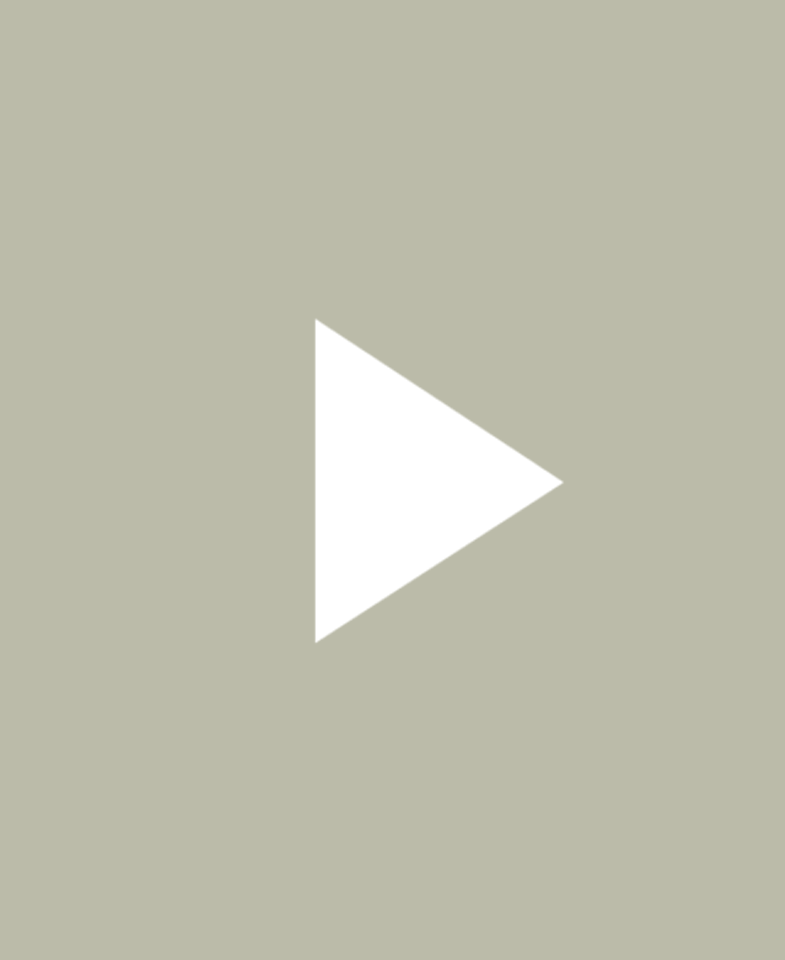
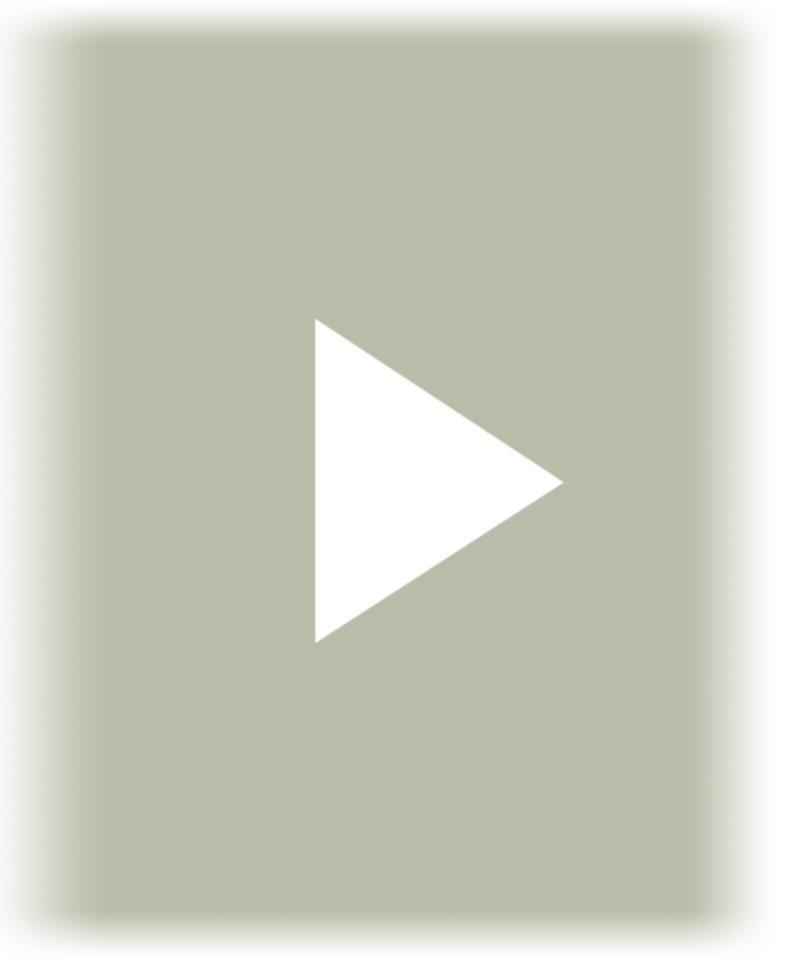
sepia filters

Changed region(s): [[0.0, 0.0, 1.0, 1.0]]

diff --git a/js/cocktail.js b/js/cocktail.js
@@ -144,7 +144,8 @@
 			],
         daiquiri: [["Shake with cracked ice.","Strain into a chilled cocktail glass.", "Garnish with a lime wheel"],
 				["<a href='.'>Daiquiri</a>", "1½ oz light rum", "¾ oz lime juice", "¼ ounce of simple syrup", "<b>Cocktail Glass</b>"],["No doubt the frozen kiwi-banana Daiquiri and the watermelon-strawberry Daiquiri are superlative choices when training for a drunken balcony-to-balcony climb at a Daytona Beach hotel midway through spring break. But the odss are you're already past that - or somehow resisted such antics in the first place - and can now appreciate an unalduterated Daiquiri.", "Only mildly difficult to prepare, this drink is best served ice-cold. When a dash of <strong>grenadine</strong> is added it's known as a Bacardi Cocktail. If the lime is too tart, add a dash of maraschino, orgeat, or crème d'ananas. Never opt of Rose's lime juice; you'll end up with a mutated Gimlet. Always shake or flash blend the ingredients thoroughly with cracked ice.", "Similar drinks include the Floridita."]],
-        cosmopolitan: [["Shake with cracked ice; strain into chilled cocktail glass. Garnish with a lime wheel."],["<a href='.'>Cosmopolitan</a>", "1½ oz vodka", "¾ oz Cointreau", "½ ounce lime juice", "1 splash cranberry juice"],[]]
+        cosmopolitan: [["Shake with cracked ice.","Strain into chilled cocktail glass.", "Garnish with a lime wheel."],["<a href='.'>Cosmopolitan</a>", "1½ oz vodka", "¾ oz Cointreau", "½ ounce lime juice", "1 splash cranberry juice"],["When faced with a sudden onslaught of univited guests around the cocktail hour, serve Cosmopolitans. A drink like this is easily adapted by home hosts on those occasions when mixing seems like too much stress and strain.", "Avoid situations in which guests recite their take on the Cosmo's recipe. There are hundreds of variations, but only a few are worth mentioning and even fewer worth drinking.", "With any version of the Cosmopolitan, remember that without the proper of lime, the drink will also be too sweet. Also, avoid mixing syrups or <strong>simple syrup</strong> in this crisp cocktail.", "Citrus-infused vodkas will allow for plenty of experimentation.", "Similar drinks include the Evan, the Edisonian and the Jasmine."]],
+        floridita: [["Shake with cracked ice.","Strain into chilled cocktail glass.", "Garnish with a lime wheel."],["<a href='.'>Floridita</a>", "1½ oz light rum", "½ ounce lime juice", "½ ounce sweet vermouth", "1 dash white crème de cacao", "1 dash of grenadine"],["The Floridita offers itself as common ground for even the most disparate of cocktail crowds. Unlike the Manhattan and the Old Fashioned, which provide the perfect backdrop for an event, the Floridita is so unusual taht it actually provokes conversation.", "When mixing a Floridita, shake well, and never add too much crème de cacao or grenadine. With so many ingredients, this drink often ends up unbalanced. The key to a well-made Floridita is the layering of tastes it contains. The citrus should hit first and the cacao least. Although brown crème de cacao tastes no different from the cordial's clear version, steer clear of it unless you want a cocktail that looks like mud.", "Similar drinks include the Cosmopolitan and the Hemingway Daiquiri."]]
 		},
 		lookup = {
 			c1: 'dry_martini',
@@ -154,7 +155,9 @@
 			c4: 'mint_julep',
 			c5: 'moscow_mule',
             c7: 'manhattan',
-            c8: 'daiquiri'
+            c8: 'daiquiri',
+            c9: 'cosmopolitan',
+            c10: 'floridita'
 		},
 		utils = speakEasy.Util,
 		con = window.console.log.bind(window),

diff --git a/css/home.css b/css/home.css
@@ -242,9 +242,7 @@ header ul a:link {
 	background-size: cover;
 	display: block;
 }
-header ul a:hover {
-	background-position: 0 0
-}
+
 
 form fieldset ul:last-child {
 	text-align: left;
@@ -274,6 +272,20 @@ header ul li:nth-child(5) a {
 header ul li:nth-child(6) a {
 	background-image: url("../img/cognac_s.png");
 	border-width: 0;
+}
+
+.no-svgfilters header ul a:hover {
+	background-position: 0 0;
+}
+
+.svgfilters header ul li a {
+	background-position: 0 0;
+    filter: sepia();
+}
+
+.svgfilters header ul li a:hover {
+	background-position: 0 0;
+    filter: none;
 }
 
 .show fieldset.ingredients {

diff --git a/css/main.css b/css/main.css
@@ -243,7 +243,7 @@ nav>ul>li a {
 	height: 180px;
 	width: 180px;
 	margin: 2em auto;
-	font: italic 1em/1.2 'Lora', Georgia, serif;
+	font: italic .95em/1.2 'Lora', Georgia, serif;
 	line-height: calc(100vw / 46);
 }
 
